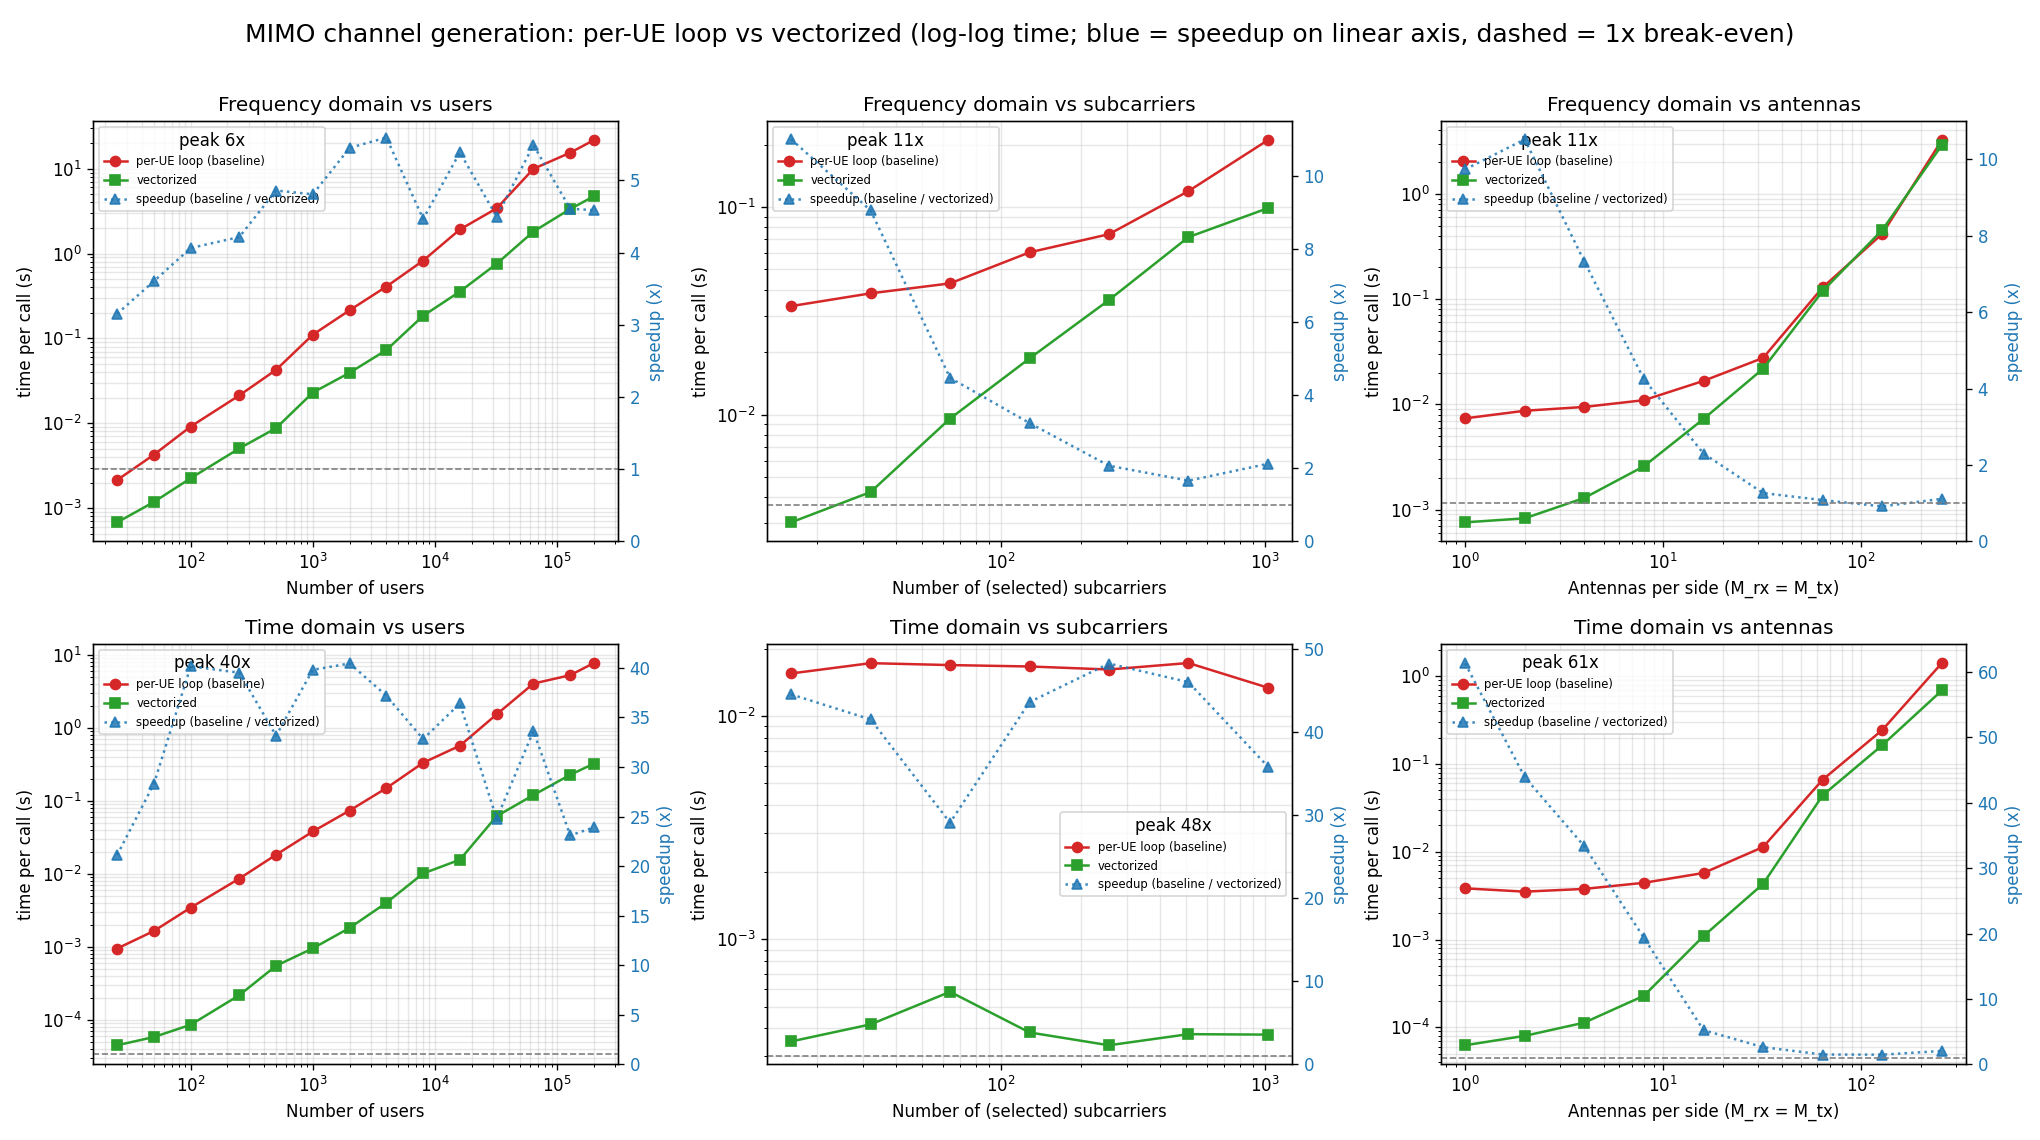
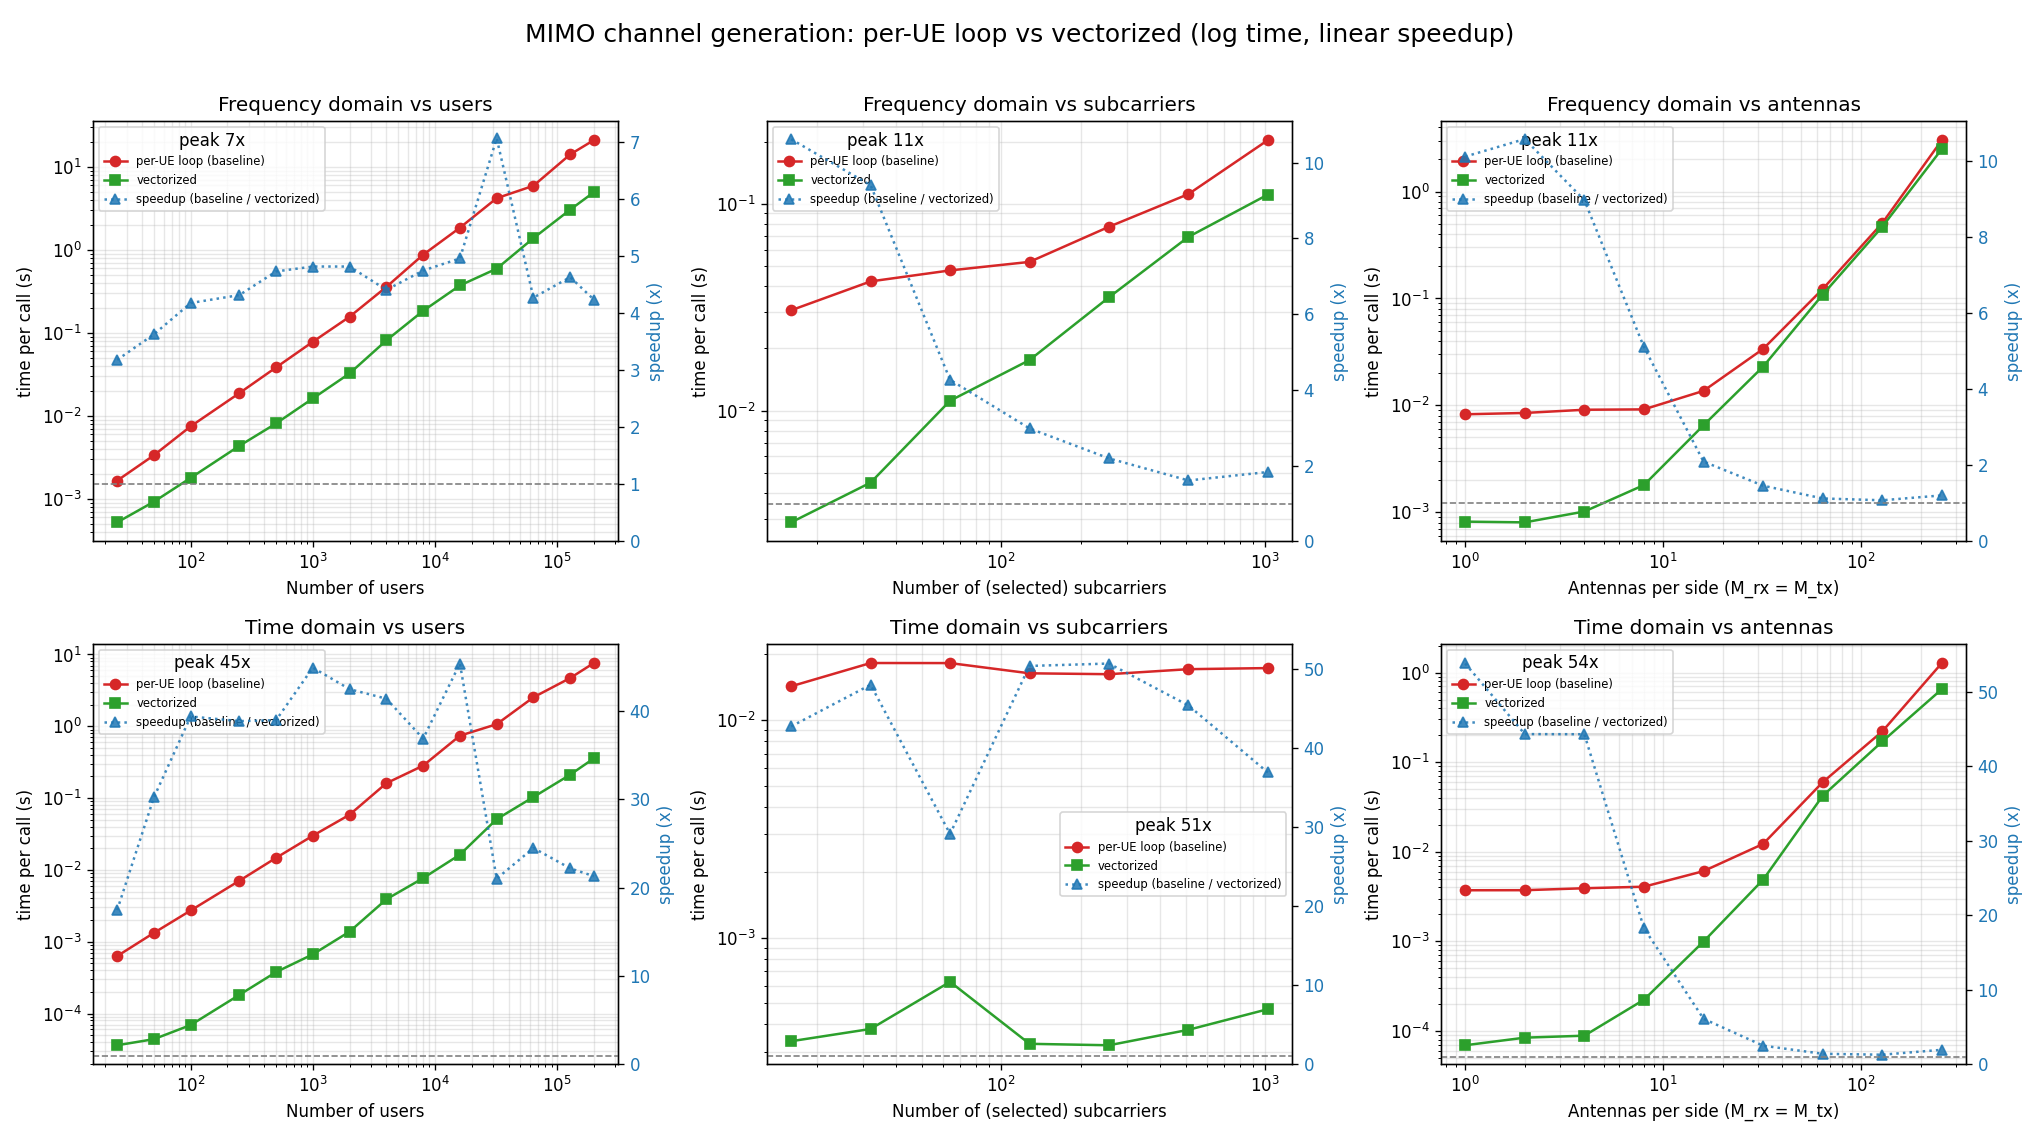
Shorten channel benchmark plot title

diff --git a/scripts/benchmark_channel_speed.py b/scripts/benchmark_channel_speed.py
@@ -311,8 +311,7 @@ def plot(results, out_path):
             ax.legend(handles=[l1, l2, l3], fontsize=7, loc="best", title=f"peak {peak:.0f}x")
 
     fig.suptitle(
-        "MIMO channel generation: per-UE loop vs vectorized "
-        "(log-log time; blue = speedup on linear axis, dashed = 1x break-even)",
+        "MIMO channel generation: per-UE loop vs vectorized (log time, linear speedup)",
         fontsize=15,
     )
     fig.tight_layout(rect=(0, 0, 1, 0.97))
